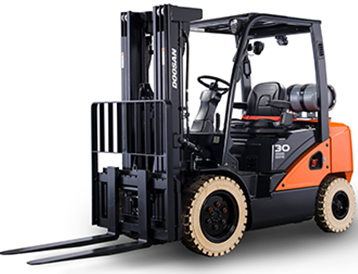
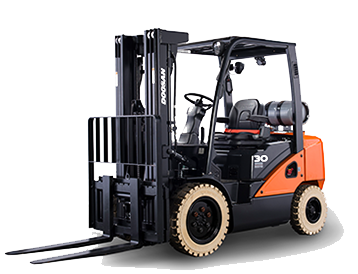
product 이미지 교체

diff --git a/common/css/common.css b/common/css/common.css
@@ -41,7 +41,7 @@ h2 { font-size: 50px; font-weight: bold; line-height: normal;}
 .page-vertical.prev { transform: scale(0.96) translateY(-20%); } 
 .page-vertical:nth-child(2).prev { transform: none; } 
 .page-vertical:nth-child(2),
-.page-vertical:nth-child(3) { padding-top: 170px;} 
+.page-vertical:nth-child(3) { display: flex; justify-content: center; align-items: center;} 
 .page-vertical:nth-child(3) { opacity: 0; visibility: hidden; } 
 /* main-visaul */
 .main-visual .content-body { position: absolute; top: 0; left: 0; width: 100%; height: 100%;}
